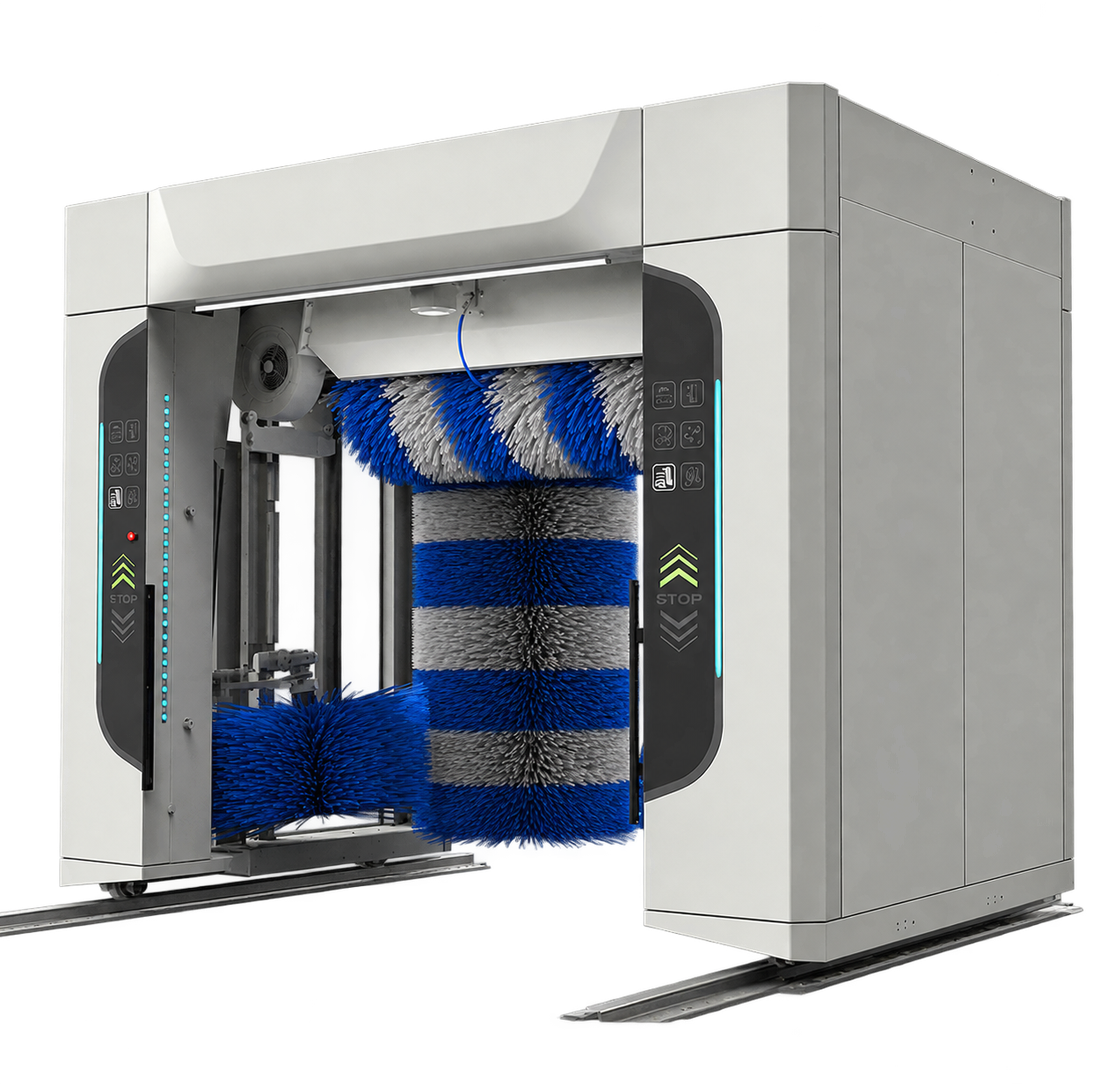
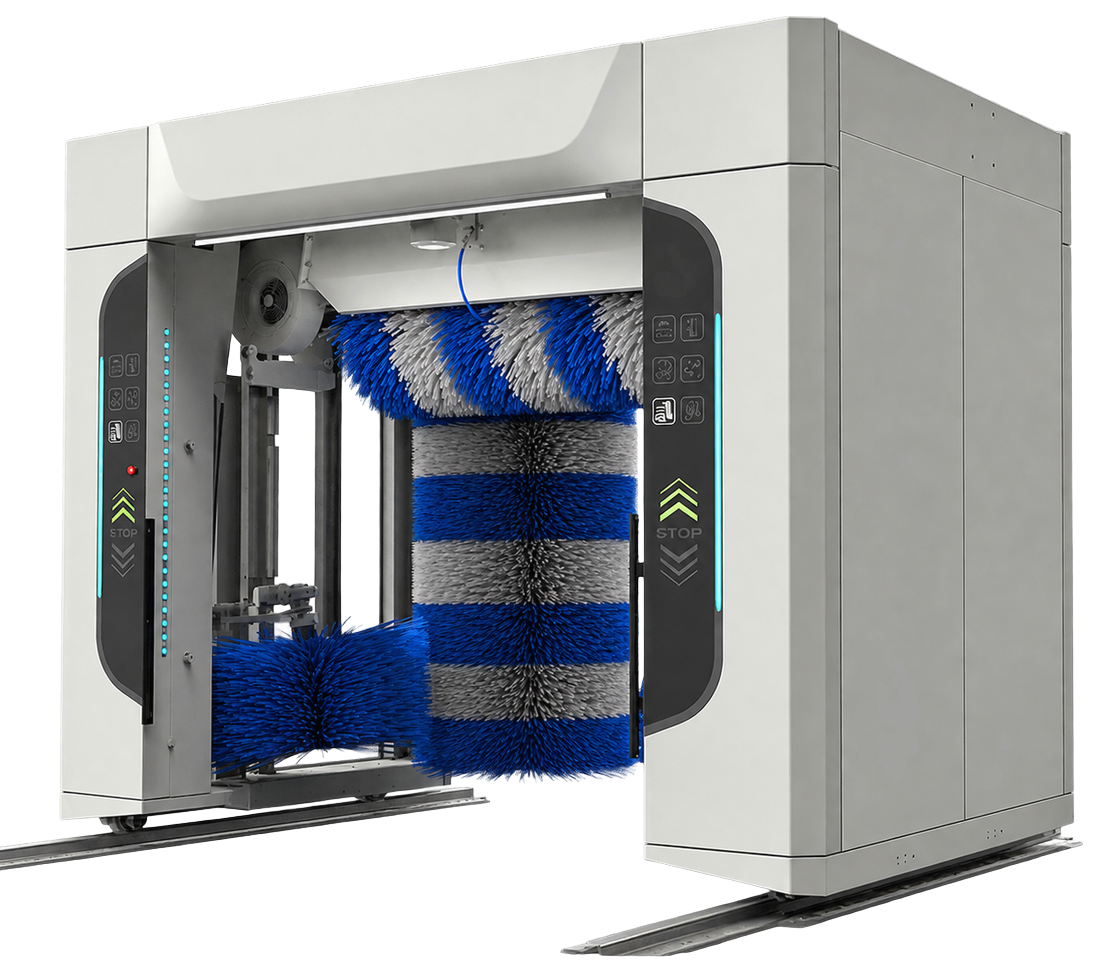
Remove hero image panel, top-align and enlarge machine photo
Replaces the machine photo with a new transparent-background export,
drops the white card wrapper (background, rounded corners, shadow) so
it sits directly on the navy hero, top-aligns the image column with
the text column instead of centering it, lets it fill the right
column with minimal margin, and adds a subtle radial-gradient glow
behind it so it doesn't read as flat.

diff --git a/index.html b/index.html
@@ -10,11 +10,11 @@
 <link rel="preconnect" href="https://fonts.gstatic.com" crossorigin>
 <link rel="stylesheet" href="https://fonts.googleapis.com/css2?family=Anton&family=Poppins:wght@400;500;600;700;800&display=swap">
 
-<link rel="icon" type="image/png" sizes="32x32" href="assets/img/favicon-32.png?v=20260914c">
-<link rel="icon" type="image/png" sizes="16x16" href="assets/img/favicon-16.png?v=20260914c">
-<link rel="apple-touch-icon" sizes="180x180" href="assets/img/favicon-180.png?v=20260914c">
+<link rel="icon" type="image/png" sizes="32x32" href="assets/img/favicon-32.png?v=20260914d">
+<link rel="icon" type="image/png" sizes="16x16" href="assets/img/favicon-16.png?v=20260914d">
+<link rel="apple-touch-icon" sizes="180x180" href="assets/img/favicon-180.png?v=20260914d">
 
-<link rel="stylesheet" href="styles.css?v=20260914c">
+<link rel="stylesheet" href="styles.css?v=20260914d">
 </head>
 <body>
 <a class="skip-link" href="#main">Saltar al contenido</a>
@@ -22,7 +22,7 @@
 <header class="nav" data-nav>
   <div class="container nav-inner">
     <a class="nav-logo" href="#top" aria-label="IA Wash — inicio">
-      <img src="assets/img/logo-iawash.webp?v=20260914c" alt="IA Wash" width="165" height="42" />
+      <img src="assets/img/logo-iawash.webp?v=20260914d" alt="IA Wash" width="165" height="42" />
     </a>
 
     <nav class="nav-menu" data-nav-menu aria-label="Navegación principal">
@@ -65,12 +65,11 @@
         </div>
 
         <div class="hero-media">
-          <div class="hero-media-panel">
-            <picture>
-              <source srcset="assets/img/machine-mlm535.webp" type="image/webp">
-              <img src="assets/img/machine-mlm535.png" alt="Puente de lavado automático M-LM535 con cepillos roll-over" loading="eager" width="1100" height="1084">
-            </picture>
-          </div>
+          <div class="hero-media-glow" aria-hidden="true"></div>
+          <picture>
+            <source srcset="assets/img/machine-mlm535.webp" type="image/webp">
+            <img class="hero-media-img" src="assets/img/machine-mlm535.png" alt="Puente de lavado automático M-LM535 con cepillos roll-over" loading="eager" width="1099" height="972">
+          </picture>
         </div>
       </div>
     </div>
@@ -273,7 +272,7 @@
 
 <footer class="footer">
   <div class="container footer-inner">
-    <img class="footer-logo" src="assets/img/logo-iawash.webp?v=20260914c" alt="IA Wash" />
+    <img class="footer-logo" src="assets/img/logo-iawash.webp?v=20260914d" alt="IA Wash" />
     <nav class="footer-links" aria-label="Enlaces del pie de página">
       <a href="#como-funciona">Cómo funciona</a>
       <a href="#combo">El combo</a>
@@ -285,9 +284,9 @@
   </div>
 </footer>
 
-<script defer src="lib/gsap.min.js?v=20260914c"></script>
-<script defer src="lib/ScrollTrigger.min.js?v=20260914c"></script>
-<script defer src="lib/manifest.js?v=20260914c"></script>
-<script defer src="main.js?v=20260914c"></script>
+<script defer src="lib/gsap.min.js?v=20260914d"></script>
+<script defer src="lib/ScrollTrigger.min.js?v=20260914d"></script>
+<script defer src="lib/manifest.js?v=20260914d"></script>
+<script defer src="main.js?v=20260914d"></script>
 </body>
 </html>

diff --git a/styles.css b/styles.css
@@ -261,26 +261,39 @@ html.nav-open .nav-toggle .icon-close { display: block; }
   flex-direction: column;
   gap: clamp(2.5rem, 6vw, 3.5rem);
 }
-.hero-media { display: flex; justify-content: center; }
-.hero-media-panel {
-  width: 100%;
-  max-width: 420px;
-  background: var(--bg-2);
-  border-radius: 22px;
-  box-shadow: 0 30px 60px -20px rgba(0, 10, 25, .5);
-  padding: clamp(1.2rem, 3vw, 2rem);
+.hero-media {
+  position: relative;
+  display: flex;
+  justify-content: center;
 }
-.hero-media-panel img { width: 100%; height: auto; display: block; }
+.hero-media-glow {
+  position: absolute;
+  top: 50%; left: 50%;
+  width: 130%; height: 130%;
+  transform: translate(-50%, -50%);
+  background: radial-gradient(circle, rgba(43, 190, 250, .22), transparent 70%);
+  z-index: 0;
+  pointer-events: none;
+}
+.hero-media-img {
+  position: relative;
+  z-index: 1;
+  width: 100%;
+  max-width: 480px;
+  height: auto;
+  display: block;
+  margin-inline: auto;
+}
 
 @media (min-width: 1024px) {
   .hero-grid {
     flex-direction: row;
-    align-items: center;
+    align-items: flex-start;
     gap: clamp(2rem, 5vw, 4rem);
   }
   .hero-content { flex: 0 0 55%; max-width: 55%; }
   .hero-media { flex: 0 0 45%; max-width: 45%; }
-  .hero-media-panel { max-width: 100%; }
+  .hero-media-img { max-width: 100%; margin-inline: 0; }
 }
 .hero-title {
   font-family: var(--display);
